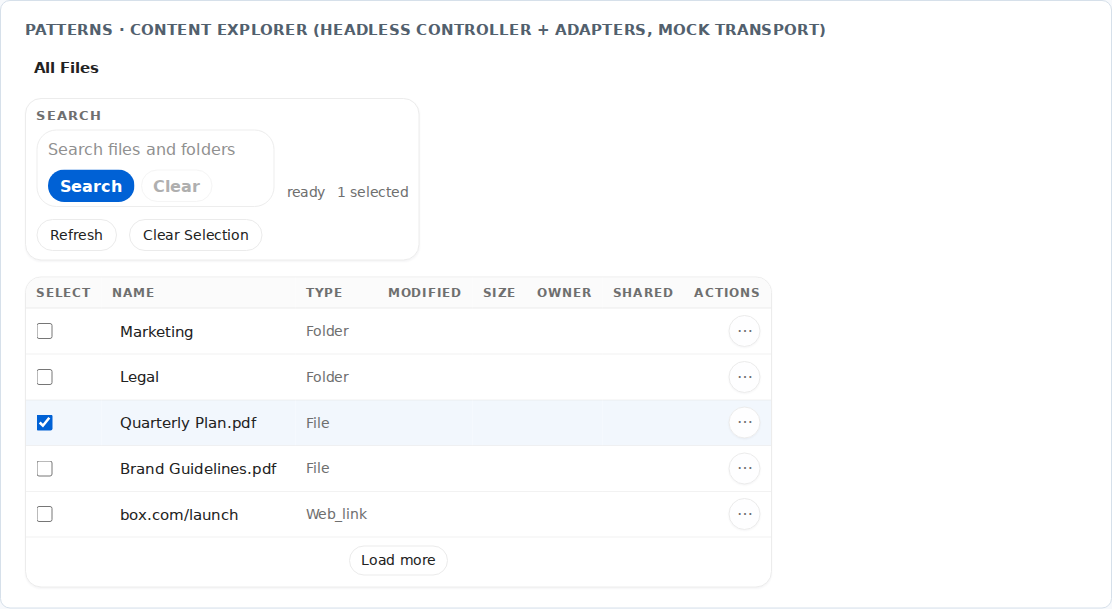
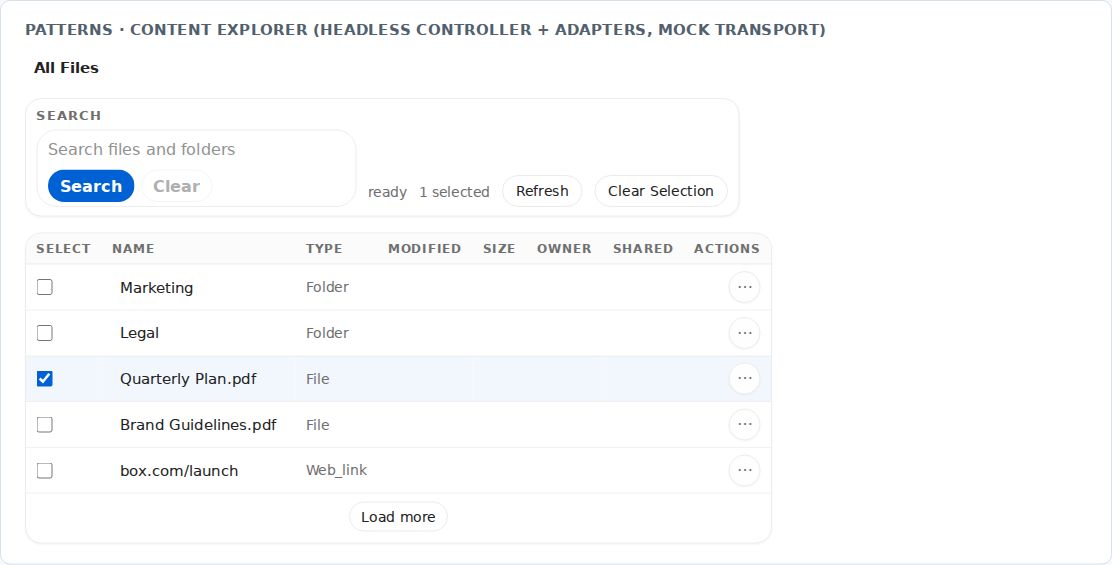
Adopt corrected container-rendered search gallery baselines

diff --git a/docs/catalog-completeness-audit.md b/docs/catalog-completeness-audit.md
@@ -124,8 +124,11 @@ adopted from CI artifacts. The forms gallery exposed a genuine Search Field
 regression: inline-size containment collapsed a content-sized flex child.
 An intrinsic inline-size fallback repairs it without overriding parent sizing.
 A permanent gallery assertion checks input width and inner control bounds;
-the focused Search Field/responsive unit suite passes (12 tests). The forms
-baseline must be captured again from the corrected code in the pinned container.
+the focused Search Field/responsive unit suite passes (12 tests). Eight flex-layout
+search/clear browser cases and the existing 32 responsive cases also pass.
+Corrected forms and explorer captures from pinned-container CI run 36029736982
+were visually reviewed and adopted; the other 62 docs-site baselines already
+passed that run. CI typecheck/tests/build and strict conformance checks passed.
 
 Review follow-up: repaired the shared focus traversal's fieldset and negative-
 tabindex shadow-host edge cases. Four new regression tests cover first versus
